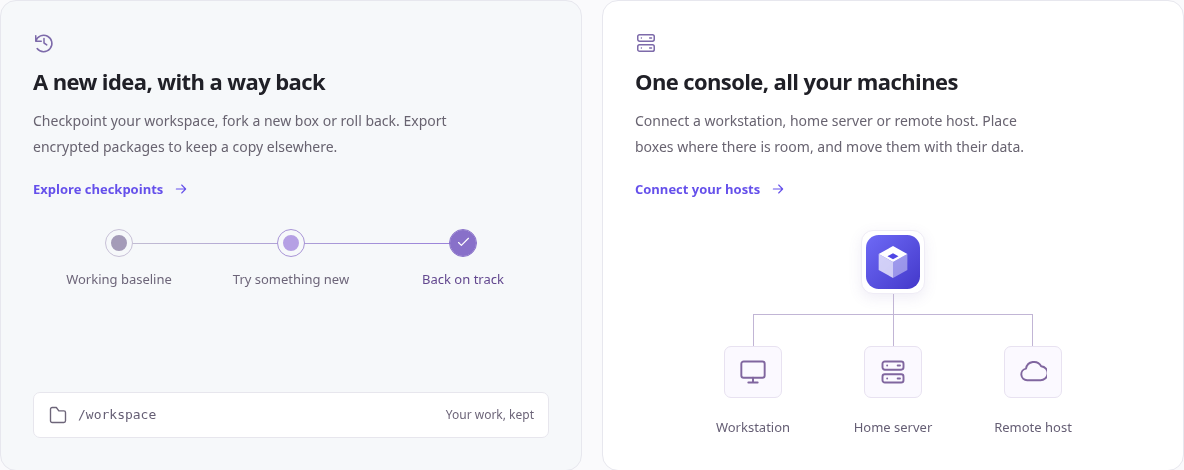
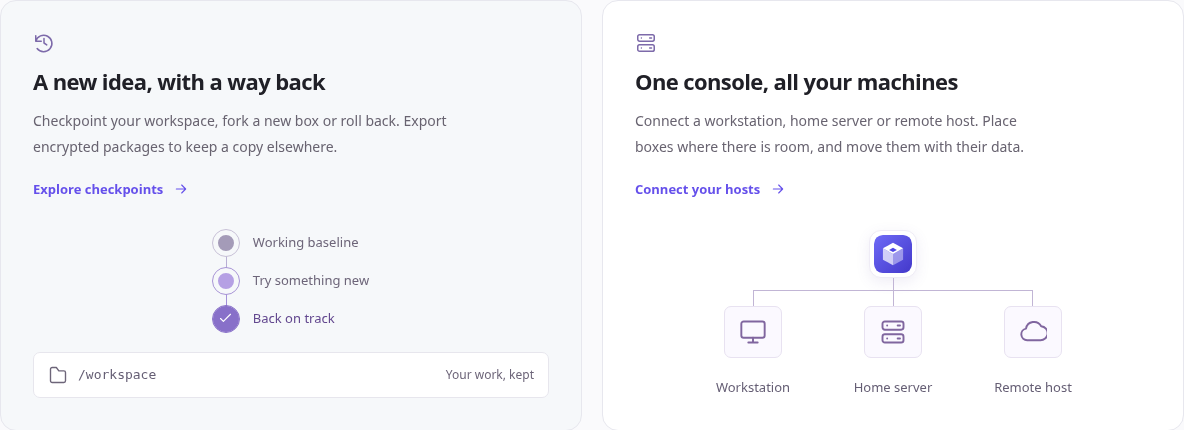
docs: refresh compact card previews for PR 212

diff --git a/README.md b/README.md
@@ -1,5 +1,5 @@
 # PR #212 preview images
 
-Actual browser screenshots of ArnoChenFx/minibox PR #212 at source commit `a0456b07840e1d80a1b98dc0ea3f5de771c62ac6`.
+Actual browser screenshots of ArnoChenFx/minibox PR #212 at source commit `2e565e2b25d62baacafc168b4e2c83d915e98b19`.
 
 This branch contains review images only. Do not merge it into main or use it for deployment.
